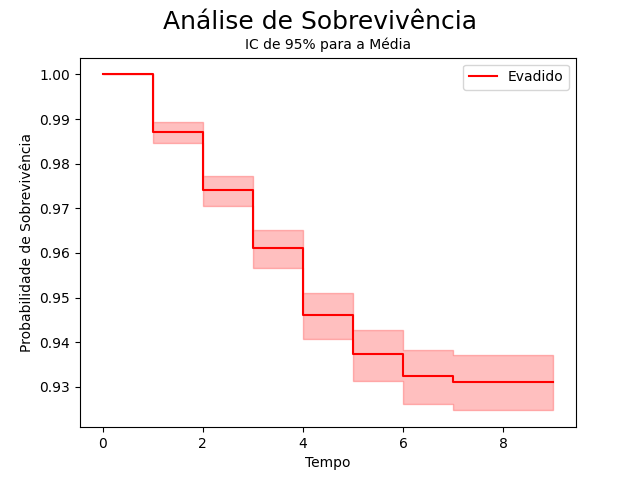
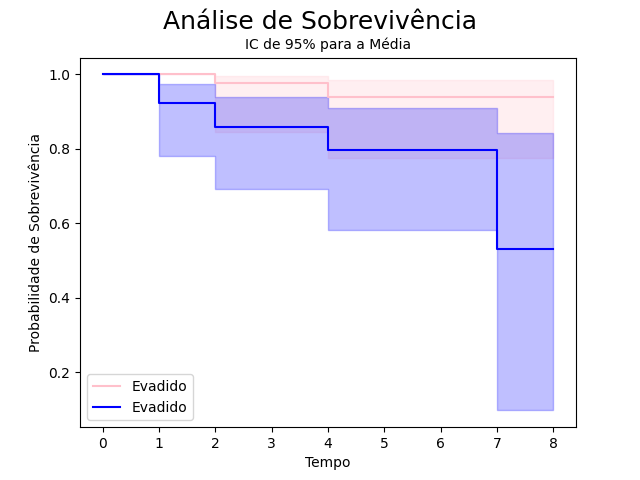
adicionado categorias na analise de sobrevivencia

diff --git a/markovchain.py b/markovchain.py
@@ -4,6 +4,7 @@ import pandas as pd
 from pydtmc import MarkovChain, plot_graph, plot_walk
 from lifelines import KaplanMeierFitter
 
+from Aluno import Aluno
 from markov_diagram import Diagram
 
 taxaRetencao = 1.0
@@ -256,8 +257,14 @@ def prob_absor():
 
 def sobrevivencia(time, event_observed, label, color):
     kmf = KaplanMeierFitter()
-    kmf.fit(time, event_observed, label=label)
-    kmf.plot_survival_function(color=color)
+    #kmf.fit(time, event_observed, label=label)
+
+    for i in range(len(time)):
+        kmf.fit(time[i], event_observed[i], label=label[i])
+        kmf.plot_survival_function(color=color[i])
+
+
+    #kmf.plot_survival_function(color=color)
     plt.xlabel('Tempo')
     plt.ylabel('Probabilidade de Sobrevivência')
     plt.suptitle("Análise de Sobrevivência", fontsize=18)
@@ -340,8 +347,35 @@ event_observedT = np.array([])
 event_observedR = np.array([])
 
 
-def Simu(quantAlunos):
+# def array(quantAlunos):
+
+
+def Simu(quantAlunos, matriz):
     print(f"\nSimulação com {quantAlunos} alunos")
+    e = 0
+    time = np.array([])
+    event_observedE = np.array([])
+
+    for i in range(quantAlunos):
+        a = Aluno(i, matriz)
+        list(a.gen)
+        arr = a.history
+
+        tempo = np.arange(0, a.nb_state, 1)
+        time = np.concatenate((tempo, time))
+
+        estados = np.zeros((a.nb_state,), dtype=int)
+        if 'E' in arr:
+            e += 1  # quantidade para probabilidade
+            k = arr.index("E")
+            tempo_ate_evadido.append(k)
+            estados[k] = 1
+        event_observedE = np.concatenate((event_observedE, estados))
+
+
+    return time, event_observedE
+
+
 
 
 
@@ -406,18 +440,37 @@ for i in range(n):
         count += 1
 
 print(f"\nProbabilidade de ser retido: {r / n * 100} %")
-print(f"Probabilidade de ser trancado: {t / n * 100} %")
+# print(f"Probabilidade de ser trancado: {t / n * 100} %")
 print(f"Probabilidade de evasão: {e / n * 100} %")
 print(f"Probabilidade de graduação: {g / n * 100} %")
 print(f"Tempo médio até ser retido: {np.round(np.mean(tempo_ate_retido), 3)} anos")
-#print(f"Tempo médio até ser trancado: {np.round(np.mean(tempo_ate_trancado), 3)} anos")
+# print(f"Tempo médio até ser trancado: {np.round(np.mean(tempo_ate_trancado), 3)} anos")
 print(f"Tempo médio até ser evadido: {np.round(np.mean(tempo_ate_evadido), 3)} anos")
 print(f"Tempo médio até ser graduado: {np.round(np.mean(tempo_ate_graduado), 3)} anos")
 
 
-sobrevivencia(time, event_observedE, 'Evadido', "red")
-sobrevivencia(time, event_observedG, 'Graduado', "green")
-sobrevivencia(time, event_observedR, 'Retido', "orange")
-#sobrevivencia(time, event_observedT, 'Trancado', "grey")
 
+
+
+
+
+sobrevivencia([time], [event_observedE], ['Evadido'], ["red"])
+sobrevivencia([time], [event_observedG], ['Graduado'], ["green"])
+sobrevivencia([time], [event_observedR], ['Retido'], ["orange"])
+# sobrevivencia(time, event_observedT, 'Trancado', "grey")
+
+
+
+# TODO passar diferentes matrizes
+time1, event_observed1 = Simu(10, 'matrix.csv')  # Exemplo Feminino
+time2, event_observed2 = Simu(10, 'matrix.csv')  # Exemplo Masculino
+
+times = [time1, time2]
+events = [event_observed1, event_observed2]
+colors = ["pink", "blue"]
+labels = ["Feminino", "Masculino"]
+
+print(time1)
+print(event_observed1)
+sobrevivencia(times, events, labels, colors)
 

diff --git a/tests/testKMF.py b/tests/testKMF.py
@@ -5,7 +5,8 @@ df = load_waltons() # returns a Pandas DataFrame
 from matplotlib import pyplot as plt
 
 durations = [5,6,6,2.5,4,4]
-event_observed = [1, 0, 0, 1, 1, 1]
+event_observed1 = [1, 0, 0, 1, 1, 1]
+event_observed2 = [0, 1, 0, 0, 1, 1]
 label='Kaplan Meier Estimate'
 
 print(df)
@@ -23,7 +24,14 @@ E = df['E']
 #print(E)
 
 kmf = KaplanMeierFitter()
-kmf.fit(T, event_observed=E)
+kmf.fit(durations, event_observed1)
+kmf.plot_survival_function()
+kmf.fit(durations, event_observed2)
+kmf.plot_survival_function()
+plt.show()
+
+# kmf.plot_cumulative_density()
+# plt.show()
 
 #Colocar no print
 kmf.event_table
@@ -34,7 +42,3 @@ kmf.median_survival_time_
 kmf.confidence_interval_
 kmf.conditional_time_to_event_
 
-kmf.plot_survival_function()
-plt.show()
-kmf.plot_cumulative_density()
-plt.show()

diff --git a/tests/queuetest.py b/tests/queuetest.py
@@ -2,7 +2,7 @@ import numpy as np
 import pandas as pd
 
 states = ['A1', 'A2', 'A3', 'A4', 'A5', 'A1R', 'A2R', 'A3R', 'A4R', 'A5R', 'A6R', 'A7R', 'G', 'E']
-p = pd.read_csv('../matrix.csv', index_col=0)
+p = pd.read_csv('matrix.csv', index_col=0)
 
 class Simulation:
 

diff --git a/tests/test3.py b/tests/test3.py
@@ -17,7 +17,7 @@ statenames = ['A1', 'A2', 'A3', 'A4', 'A5', 'A1R', 'A2R', 'A3R', 'A4R', 'A5R', '
 #     states = a.history
 #     print()
 
-a = Aluno(1, statenames)
+a = Aluno(1)
 list(a.gen)
 states = a.history
 time = a.nb_state
